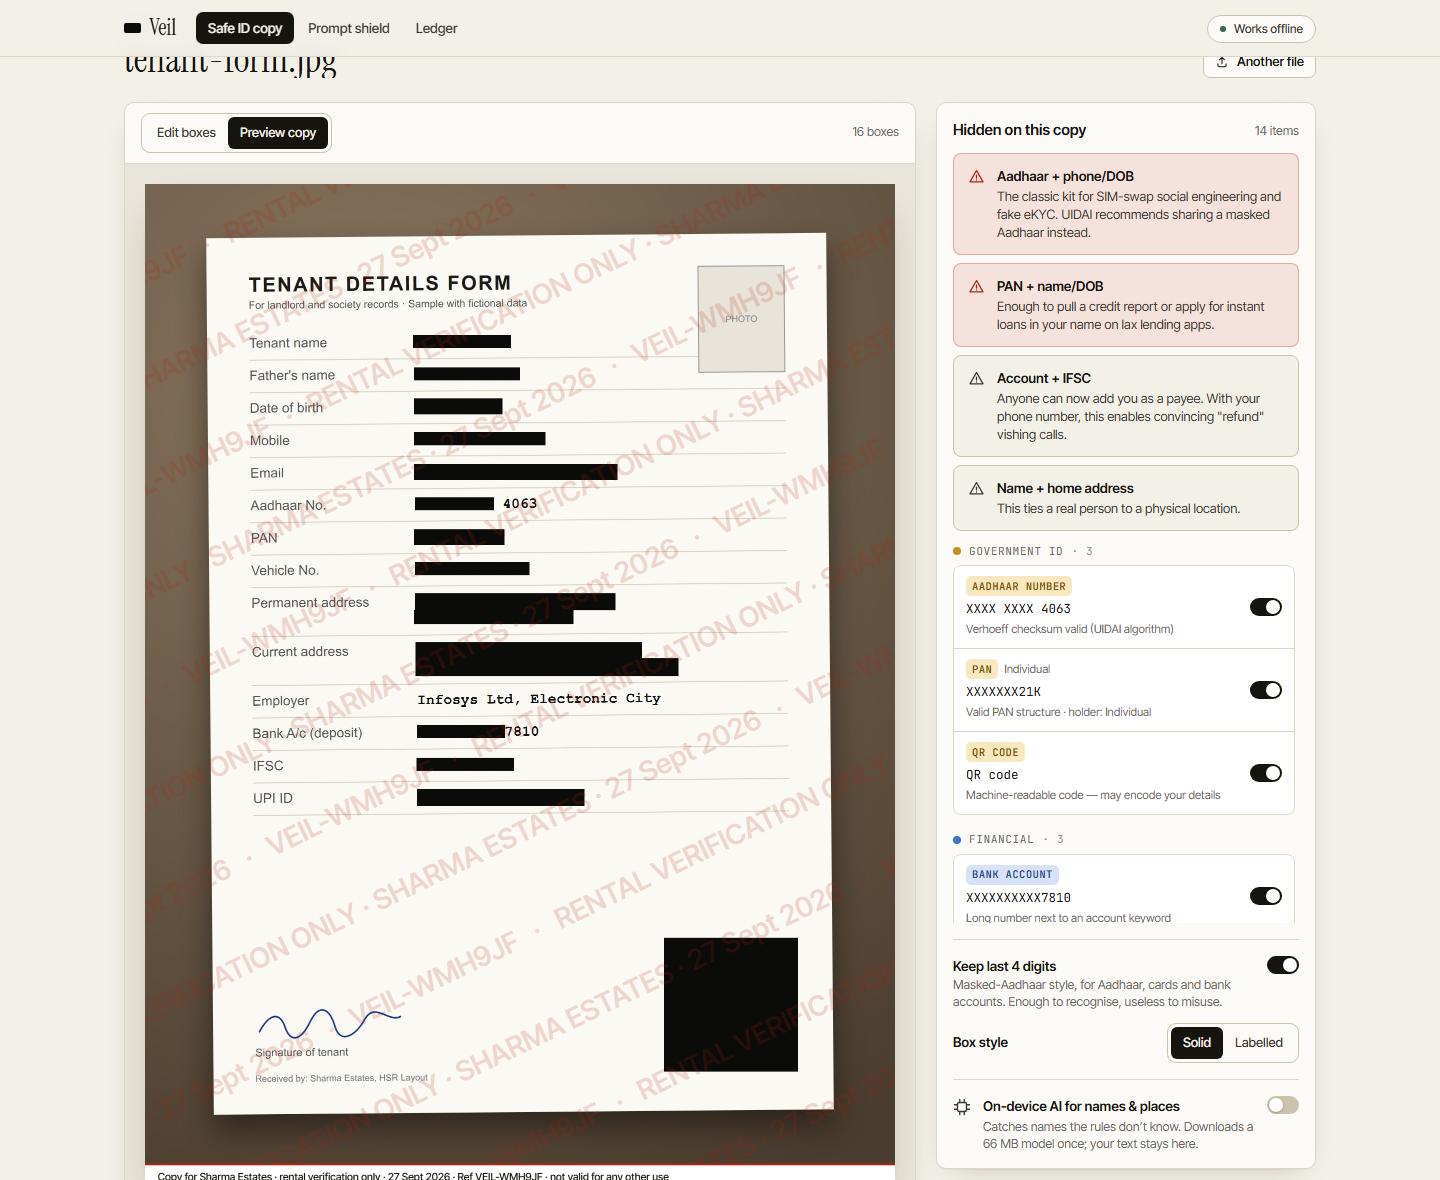
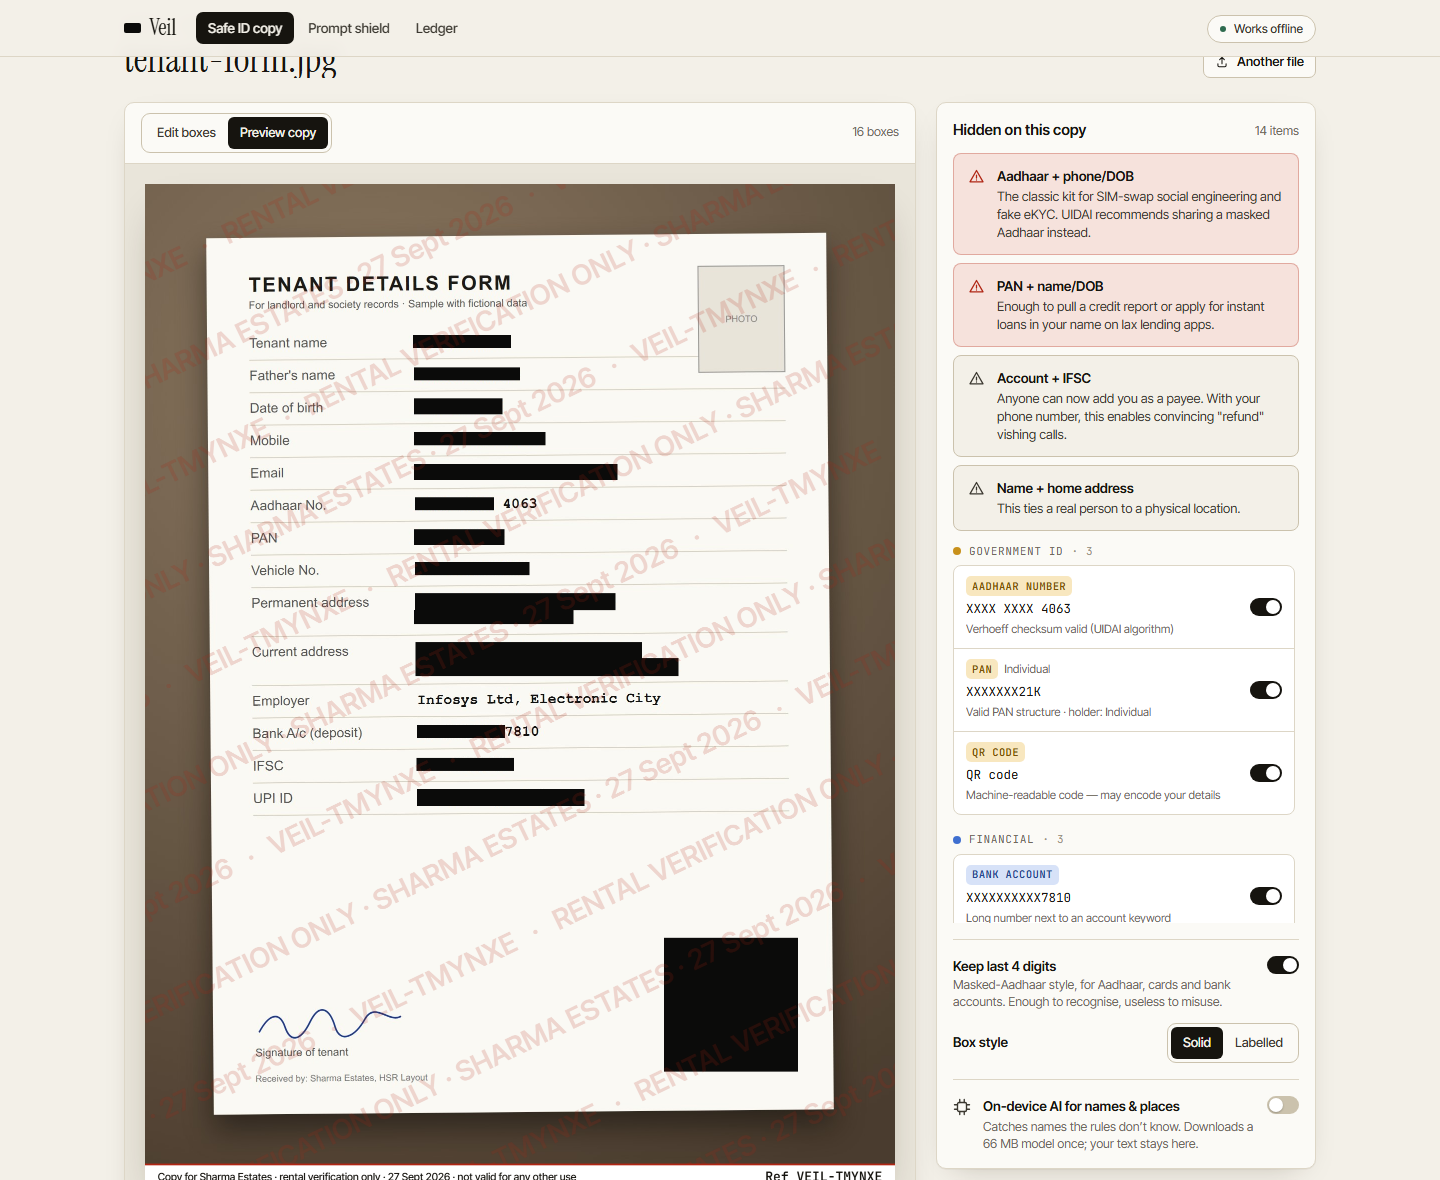
Reference printed in bold mono and read from an enlarged strip; degraded-copy trace test

diff --git a/src/lib/doc/render.ts b/src/lib/doc/render.ts
@@ -9,7 +9,7 @@ export interface ComposeOptions {
 }
 
 export const footerText = (w: WatermarkSpec) =>
-  `Copy for ${w.recipient || 'recipient'} · ${w.purpose || 'stated purpose'} only · ${w.date} · Ref ${w.code} · not valid for any other use`
+  `Copy for ${w.recipient || 'recipient'} · ${w.purpose || 'stated purpose'} only · ${w.date} · not valid for any other use`
 
 /**
  * Burns redactions (and the optional purpose watermark) into a fresh canvas.
@@ -74,16 +74,24 @@ function drawWatermark(ctx: CanvasRenderingContext2D, W: number, H: number, stri
   ctx.fillStyle = '#b02614'
   ctx.fillRect(0, H, W, Math.max(2, strip * 0.07))
   ctx.fillStyle = '#16140f'
+  ctx.textBaseline = 'middle'
+  // Reference on the right in bold monospace: the part OCR has to read exactly.
+  const mid = H + strip * 0.54
+  const ref = `Ref ${wm.code}`
+  ctx.font = `600 ${Math.round(strip * 0.5)}px "JetBrains Mono", ui-monospace, monospace`
+  ctx.textAlign = 'right'
+  ctx.fillText(ref, W - strip * 0.5, mid)
+  const refW = ctx.measureText(ref).width
   let fs = Math.round(strip * 0.42)
   const foot = footerText(wm)
+  const room = W - strip * 1.5 - refW
   ctx.font = `500 ${fs}px "Inter Tight Variable", system-ui, sans-serif`
-  while (ctx.measureText(foot).width > W - strip && fs > 8) {
+  while (ctx.measureText(foot).width > room && fs > 8) {
     fs--
     ctx.font = `500 ${fs}px "Inter Tight Variable", system-ui, sans-serif`
   }
-  ctx.textBaseline = 'middle'
   ctx.textAlign = 'left'
-  ctx.fillText(foot, strip * 0.5, H + strip * 0.54)
+  ctx.fillText(foot, strip * 0.5, mid)
 }
 
 export function canvasToBlob(c: HTMLCanvasElement, type: 'image/png' | 'image/jpeg', quality = 0.92): Promise<Blob> {

diff --git a/src/pages/Ledger.tsx b/src/pages/Ledger.tsx
@@ -26,9 +26,15 @@ export default function Ledger() {
       const doc = await loadFile(file)
       const c = doc.pages[0].canvas
       setTrace({ kind: 'busy', msg: 'Reading the reference strip' })
-      // The reference sits in the footer strip; read the bottom first, then the whole page.
-      const band = Math.round(c.height * 0.14)
-      let code = extractCode(await ocrText(c, { left: 0, top: c.height - band, width: c.width, height: band }))
+      // The reference sits in the footer strip: read an enlarged copy of the bottom first, then the whole page.
+      const band = Math.round(c.height * 0.1)
+      const strip = document.createElement('canvas')
+      strip.width = c.width * 2
+      strip.height = band * 2
+      const sctx = strip.getContext('2d')!
+      sctx.imageSmoothingQuality = 'high'
+      sctx.drawImage(c, 0, c.height - band, c.width, band, 0, 0, strip.width, strip.height)
+      let code = extractCode(await ocrText(strip))
       if (!code) {
         setTrace({ kind: 'busy', msg: 'Reading the whole page' })
         code = extractCode(await ocrText(c))
